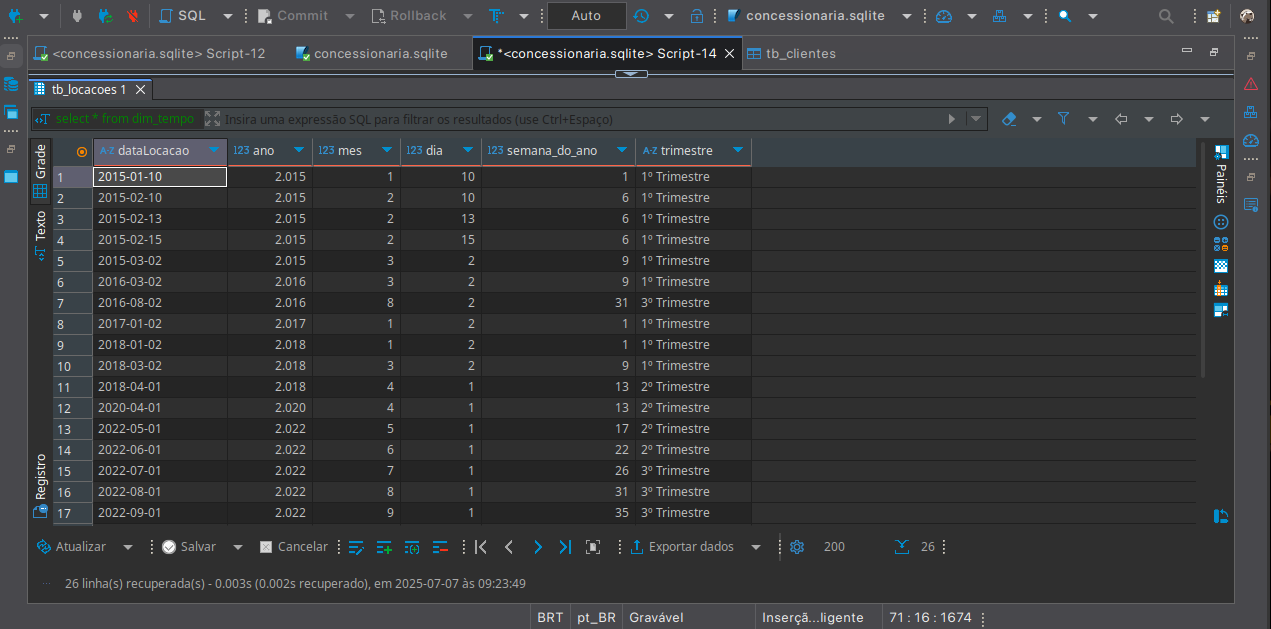
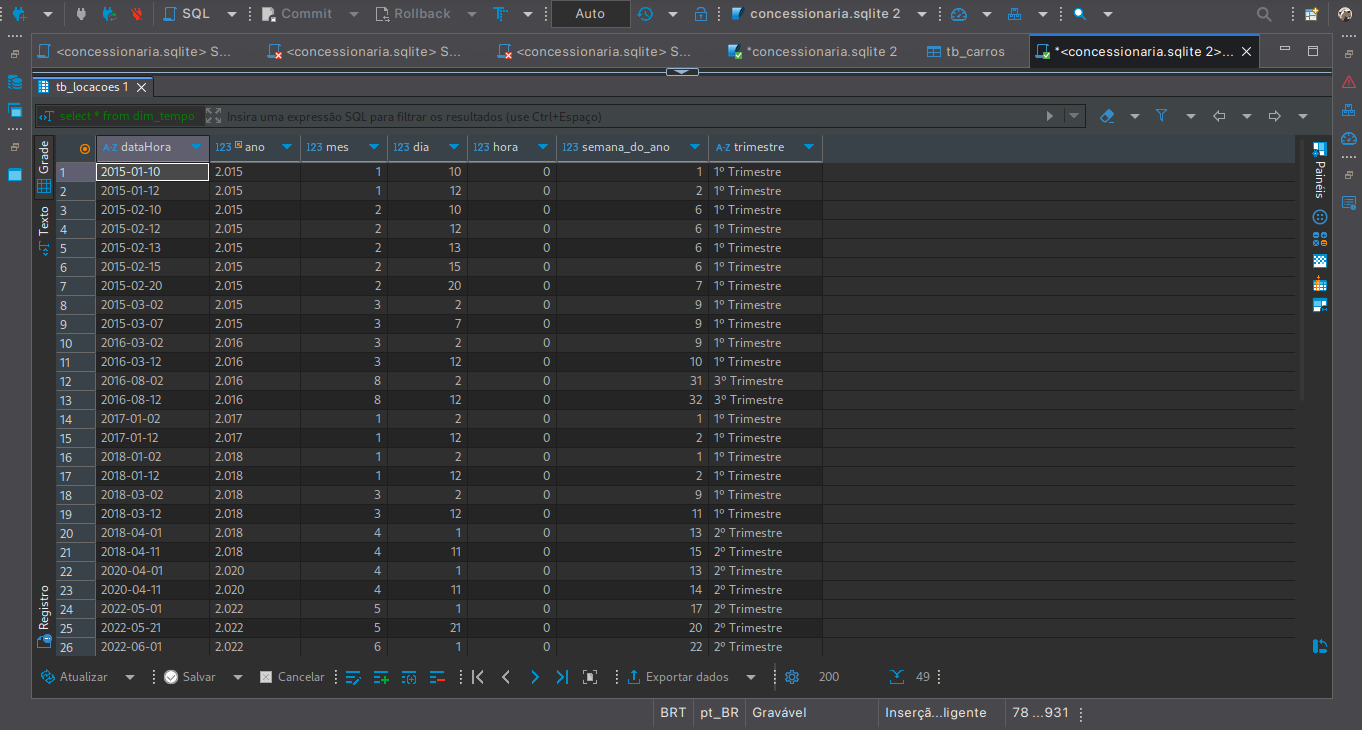
Correção do Modelo dimensional de acordo com feedbacks

diff --git a/Sprint 1/Desafio/README.md b/Sprint 1/Desafio/README.md
@@ -324,9 +324,17 @@ A **`dim_clientes`** e a **`dim_vendedores`** foram criadas como uma camada de a
 
 De forma similar, a **`dim_carros`** foi projetada para consolidar todas as informações relevantes sobre o "o quê" da análise. Ao realizar o `LEFT JOIN` com a `tb_combustiveis` dentro da própria `VIEW`, o modelo se torna mais eficiente. Isso evita que o analista precise realizar essa mesma junção repetidamente, já entregando uma dimensão completa que inclui não apenas os dados do carro, mas também a descrição do seu tipo de combustível.
 
-A criação da **`dim_tempo`** é um dos pilares da modelagem dimensional. Ela transforma a data, transforma a data, um campo transacional aparentemente simples, em uma poderosa dimensão de análise. Ao extrair atributos como ano, mês, dia e trimestre, ela permite que os dados de negócio sejam agrupados e analisados sob qualquer perspectiva temporal, respondendo a perguntas como "qual o faturamento por trimestre?" de forma direta e eficiente.
+A criação da **`dim_tempo`** é um dos pilares fundamentais da modelagem dimensional. Ela transforma a **data e hora**, elementos transacionais que costumam passar despercebidos, em uma poderosa e rica dimensão de análise. Ao extrair atributos como **ano, mês, dia, hora, semana e trimestre**, essa dimensão permite que os dados do negócio sejam agrupados e analisados sob qualquer perspectiva temporal, seja ao nível diário, por horário de pico, sazonalidade trimestral ou tendência ao longo dos anos.
 
-Por fim, a **`fato_locacoes`** foi estabelecida como o núcleo do modelo. Ela centraliza as chaves que se conectam a todas as dimensões e, mais importante, contém as métricas de negócio. A decisão de incluir uma coluna calculada, o `faturamento_total`, dentro da `VIEW` é estratégica: ela padroniza a regra de negócio, garantindo que todos os relatórios e análises utilizem o mesmo cálculo, o que confere consistência e confiabilidade aos resultados e simplifica drasticamente a complexidade das consultas finais.
+Além disso, a `dim_tempo` foi cuidadosamente construída para incorporar todas as ocorrências de tempo relevantes no negócio, abrangendo tanto a `dataLocacao` quanto a `dataEntrega`, garantindo uma cobertura temporal completa e robusta. Com isso, é possível responder perguntas estratégicas como "qual o faturamento por trimestre?", "quais horários concentram mais locações?" ou "qual o tempo médio de uma locação?" de forma direta, eficiente e padronizada.
+
+Por fim, a **`fato_locacoes`** foi estabelecida como o núcleo central do modelo. Ela concentra todas as **chaves estrangeiras** que se conectam às dimensões e, mais importante, carrega as **métricas de negócio** que impulsionam as análises, como `vlrDiaria`, `qtdDiaria` e o campo calculado `faturamento_total`.
+
+A inclusão de colunas como **`tempoLocacao`** e **`tempoEntrega`** marca um avanço na modelagem, pois permite que a mesma dimensão temporal seja utilizada duas vezes, contextualizando tanto o início quanto o fim de uma locação. Isso possibilita comparações e análises do ciclo de vida completo de cada transação.
+
+A decisão estratégica de calcular o `faturamento_total` dentro da própria `VIEW` traz diversos benefícios: padroniza a lógica de negócio, elimina ambiguidade nos relatórios, facilita a construção de dashboards e garante que todos os analistas e usuários do sistema estejam falando a mesma língua nos seus indicadores. Além disso, a `VIEW` da tabela fato foi construída com uma verificação de integridade que filtra locações inválidas, como aquelas em que a entrega ocorre antes da locação, reforçando a qualidade dos dados e a confiança nos resultados.
+
+Com esse desenho, o modelo dimensional atinge uma forma madura e funcional, estruturada para responder às mais diversas perguntas de negócio com **clareza**, **eficiência** e **consistência**, abrindo espaço para **tomadas de decisão inteligentes e baseadas em dados**.
 
 ```
   create view dim_clientes as
@@ -383,19 +391,23 @@ Obtive esse retorno `select * from dim_carros`:
 create view dim_tempo as
 select
 	distinct
-	dataLocacao,
-	cast(strftime('%Y', dataLocacao) as integer) as ano,
-	cast(strftime('%m', dataLocacao) as integer) as mes,
-	cast(strftime('%d', dataLocacao) as integer) as dia,
-	cast(strftime('%W', dataLocacao) as integer) as semana_do_ano,
+	dataHora,
+	cast(strftime('%Y', dataHora) as integer) as ano,
+	cast(strftime('%m', dataHora) as integer) as mes,
+	cast(strftime('%d', dataHora) as integer) as dia,
+	cast(strftime('%H', dataHora) as integer) as hora,
+	cast(strftime('%W', dataHora) as integer) as semana_do_ano,
 	case
-		when strftime('%m', dataLocacao) in ('01', '02', '03') then '1º Trimestre'
-        when strftime('%m', dataLocacao) in ('04', '05', '06') then '2º Trimestre'
-        when strftime('%m', dataLocacao) in ('07', '08', '09') then '3º Trimestre'
+		when strftime('%m', dataHora) in ('01', '02', '03') then '1º Trimestre'
+        when strftime('%m', dataHora) in ('04', '05', '06') then '2º Trimestre'
+        when strftime('%m', dataHora) in ('07', '08', '09') then '3º Trimestre'
         else '4º Trimestre'
 	end as trimestre
-from tb_locacoes;
-
+from (
+	select dataLocacao as dataHora from tb_locacoes
+	union
+	select dataEntrega as dataHora from tb_locacoes
+);
 ```
 
 Obtive esse retorno `select * from dim_tempo`:
@@ -405,15 +417,18 @@ Obtive esse retorno `select * from dim_tempo`:
 ```
 create view fato_locacoes as
 select
-    idLocacao,
-    idCliente,
-    idCarro,
-    idVendedor,
-    dataLocacao,
-    qtdDiaria,
-    vlrDiaria,
-    (qtdDiaria * vlrDiaria) as faturamento_total
-from tb_locacoes;
+    l.idLocacao,
+    l.idCliente,
+    l.idCarro,
+    l.idVendedor,
+    l.dataLocacao,
+    l.dataEntrega,
+    l.qtdDiaria,
+    l.vlrDiaria,
+    (l.qtdDiaria * l.vlrDiaria) as faturamento_total,
+    strftime('%Y-%m-%d %H:00:00', l.dataLocacao) as tempoLocacao,
+    strftime('%Y-%m-%d %H:00:00', l.dataEntrega) as tempoEntrega
+from tb_locacoes l;
 ```
 
 Obtive esse retorno `select * from fato_locacoes`:
